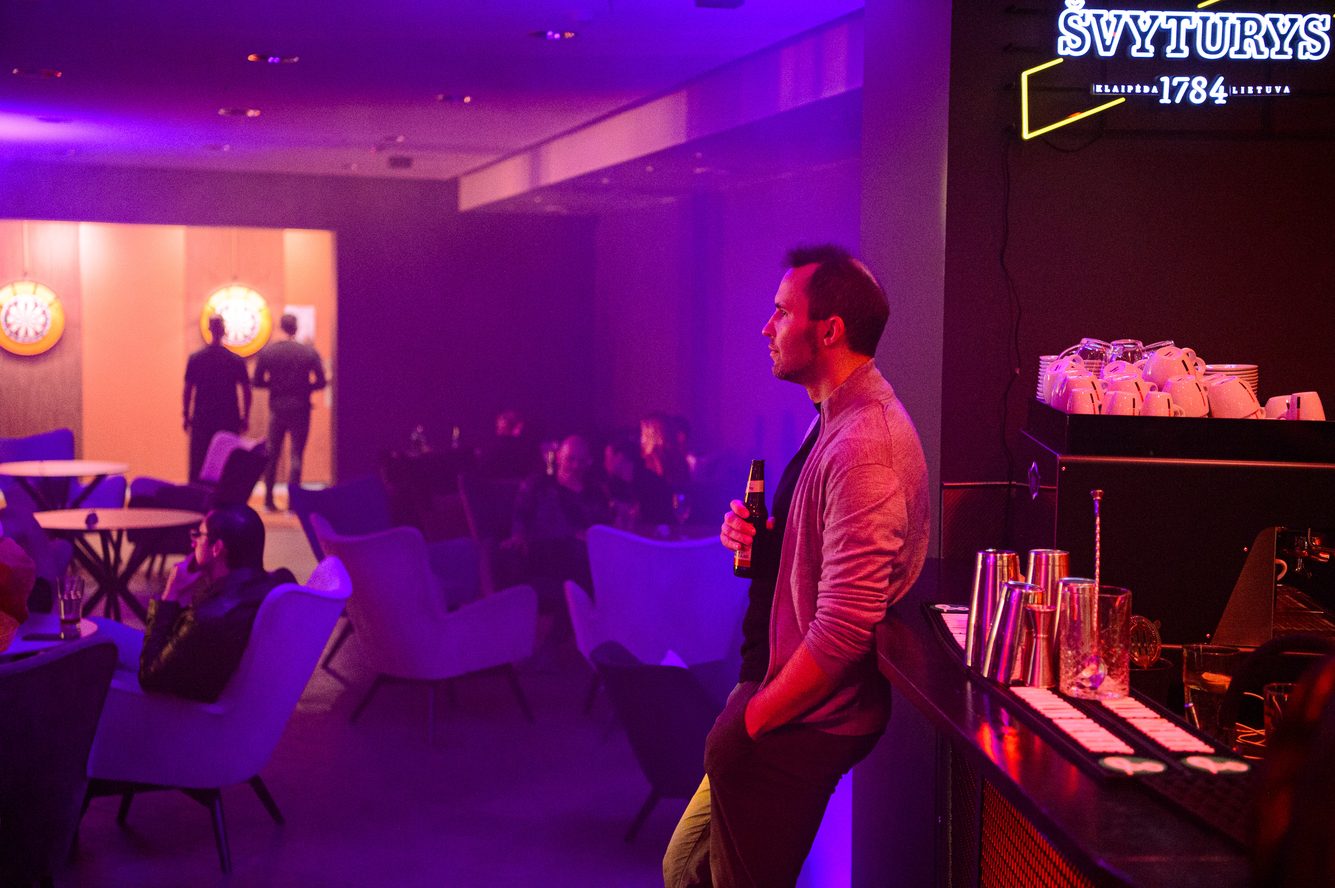
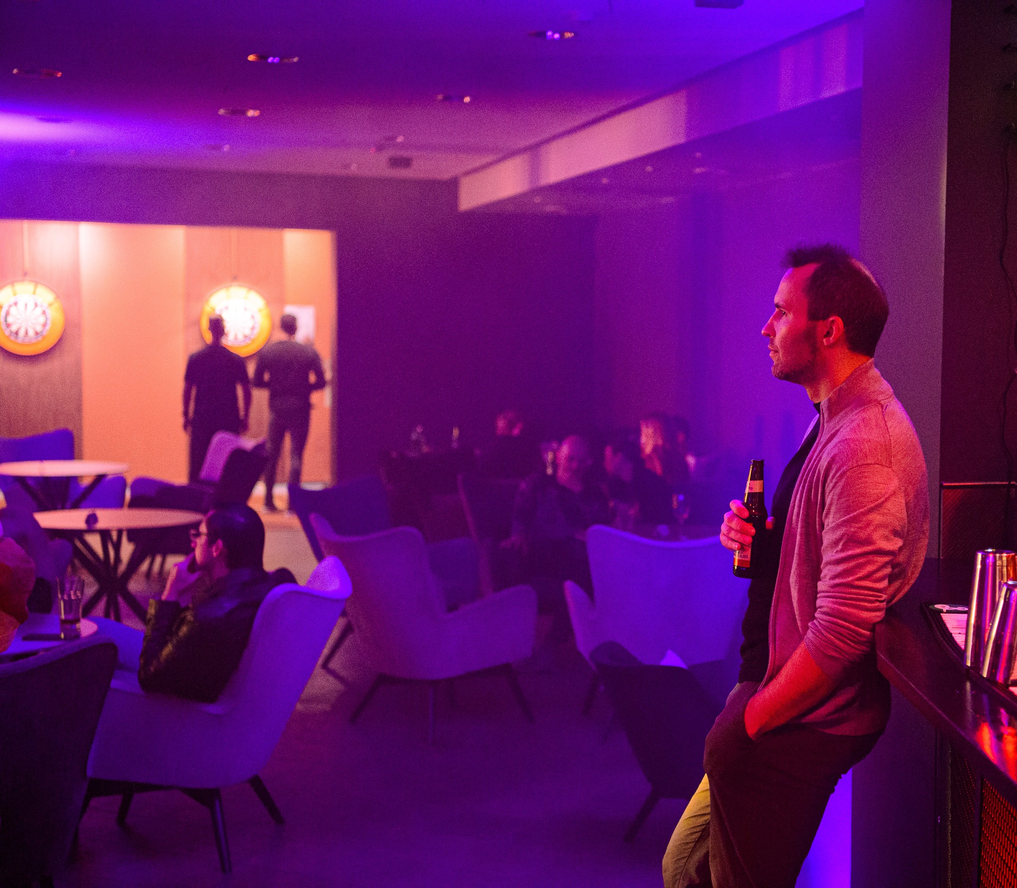
Add gallery sections; fix font links, update image
Insert new gallery sections into darts-palanga.html, offline-games.html, perkunas.html, retrobus.html, and vilko-kasnis.html to showcase related image grids. Normalize Google Fonts link markup in retrobus.html and vilko-kasnis.html (use rel="stylesheet" with href attribute). Replace/update the binary asset PERKUNAS/perkunas-8.jpg. These changes add visual galleries across several pages and tidy font link markup for consistency.

diff --git a/retrobus.html b/retrobus.html
@@ -7,7 +7,7 @@
 <meta name="description" content="RetroBus — vakarėlis, apie kurį kalbės visi. Smagiausia kelionė ant ratų visoje Lietuvoje. Įmonių vakarėliams, gimtadieniams, vestuvėms, bern- ir mergvakariams.">
 <link rel="preconnect" href="https://fonts.googleapis.com">
 <link rel="preconnect" href="https://fonts.gstatic.com" crossorigin>
-<link href="https://fonts.googleapis.com/css2?family=Inter:wght@400;500;600;700&family=Playfair+Display:ital,wght@0,400;0,600;0,700;1,400;1,600&display=swap" rel="stylesheet">
+<link rel="stylesheet" href="https://fonts.googleapis.com/css2?family=Inter:wght@400;500;600;700&family=Playfair+Display:ital,wght@0,400;0,600;0,700;1,400;1,600&display=swap">
 <link rel="stylesheet" href="assets/style.css">
 </head>
 <body>
@@ -75,6 +75,23 @@
       <div class="feature fade-in"><div class="feature-icon">🥂</div><h4>Bernvakariams / mergvakariams</h4><p>Klasika. RetroBus + Darts &amp; Billiards = vakaras, apie kurį kalbės dar metus.</p></div>
       <div class="feature fade-in"><div class="feature-icon">🎈</div><h4>Vaikų šventėms</h4><p>Ekskursija po miestą su muzika ir žaidimais — gimtadienis, kuris virsta nuotykiu.</p></div>
       <div class="feature fade-in"><div class="feature-icon">🌃</div><h4>Naktinio Vilniaus turai</h4><p>Turistinis maršrutas su gidu — Vilnius naktį iš party buso lango.</p></div>
+    </div>
+  </div>
+</section>
+
+<section class="section">
+  <div class="container">
+    <div class="section-head fade-in">
+      <span class="eyebrow">Galerija</span>
+      <h2>Party busas <em>gyvai</em></h2>
+    </div>
+    <div class="gallery fade-in">
+      <div class="gallery-item" style="background-image: url('BUS/bus-3.jpg');"></div>
+      <div class="gallery-item tall" style="background-image: url('BUS/bus-4.jpg');"></div>
+      <div class="gallery-item" style="background-image: url('BUS/bus-5.jpg');"></div>
+      <div class="gallery-item" style="background-image: url('BUS/bus-6.jpg');"></div>
+      <div class="gallery-item" style="background-image: url('BUS/bus-7.jpg');"></div>
+      <div class="gallery-item" style="background-image: url('BUS/bus-8.jpg');"></div>
     </div>
   </div>
 </section>

diff --git a/vilko-kasnis.html b/vilko-kasnis.html
@@ -7,7 +7,7 @@
 <meta name="description" content="Vilko Kąsnis — maistas Jūsų renginiui. Vieno kąsnio užkandžiai, jų rinkiniai, BBQ mėsų rinkiniai, šventinės vakarienės. Mūsų erdvėse arba pas Jus.">
 <link rel="preconnect" href="https://fonts.googleapis.com">
 <link rel="preconnect" href="https://fonts.gstatic.com" crossorigin>
-<link href="https://fonts.googleapis.com/css2?family=Inter:wght@400;500;600;700&family=Playfair+Display:ital,wght@0,400;0,600;0,700;1,400;1,600&display=swap" rel="stylesheet">
+<link rel="stylesheet" href="https://fonts.googleapis.com/css2?family=Inter:wght@400;500;600;700&family=Playfair+Display:ital,wght@0,400;0,600;0,700;1,400;1,600&display=swap">
 <link rel="stylesheet" href="assets/style.css">
 </head>
 <body>
@@ -76,6 +76,23 @@
       <div class="two-col-img framed fade-in" style="background: linear-gradient(135deg, #2a1b13 0%, #4a2d1d 100%); display:flex; align-items:center; justify-content:center;">
         <div style="font-family: var(--font-display); font-size: 3rem; color: var(--cream); font-weight: 700; letter-spacing: 4px;">VILKO<br><span style="color: var(--copper);">KĄSNIS</span><br><span style="font-size: 0.7rem; letter-spacing: 6px; font-family: var(--font-body); font-weight: 600; color: var(--text-dim);">MAISTAS RENGINIAMS</span></div>
       </div>
+    </div>
+  </div>
+</section>
+
+<section class="section">
+  <div class="container">
+    <div class="section-head fade-in">
+      <span class="eyebrow">Galerija</span>
+      <h2>Maistas <em>šventei</em></h2>
+    </div>
+    <div class="gallery fade-in">
+      <div class="gallery-item" style="background-image: url('VILKO/vilko-3.jpg');"></div>
+      <div class="gallery-item tall" style="background-image: url('VILKO/vilko-4.jpg');"></div>
+      <div class="gallery-item" style="background-image: url('VILKO/vilko-5.jpg');"></div>
+      <div class="gallery-item" style="background-image: url('VILKO/vilko-6.jpg');"></div>
+      <div class="gallery-item" style="background-image: url('VILKO/vilko-7.jpg');"></div>
+      <div class="gallery-item" style="background-image: url('VILKO/vilko-8.jpg');"></div>
     </div>
   </div>
 </section>

diff --git a/offline-games.html b/offline-games.html
@@ -103,6 +103,23 @@
   </div>
 </section>
 
+<section class="section">
+  <div class="container">
+    <div class="section-head fade-in">
+      <span class="eyebrow">Galerija</span>
+      <h2><em>Žaidimų erdvė</em>, kuri traukia komandą</h2>
+    </div>
+    <div class="gallery fade-in">
+      <div class="gallery-item" style="background-image: url('OFFLINE/offline-3.jpg');"></div>
+      <div class="gallery-item tall" style="background-image: url('OFFLINE/offline-4.jpg');"></div>
+      <div class="gallery-item" style="background-image: url('OFFLINE/offline-5.jpg');"></div>
+      <div class="gallery-item" style="background-image: url('OFFLINE/offline-6.jpg');"></div>
+      <div class="gallery-item" style="background-image: url('OFFLINE/offline-7.jpg');"></div>
+      <div class="gallery-item" style="background-image: url('OFFLINE/offline-8.jpg');"></div>
+    </div>
+  </div>
+</section>
+
 <section class="cta-band">
   <div class="container fade-in">
     <span class="eyebrow" style="margin: 0 auto 16px; display:inline-block; padding-left: 36px;">Susiplanuoti</span>

diff --git a/perkunas.html b/perkunas.html
@@ -76,6 +76,23 @@
   </div>
 </section>
 
+<section class="section">
+  <div class="container">
+    <div class="section-head fade-in">
+      <span class="eyebrow">Galerija</span>
+      <h2>Smiginio <em>akimirkos</em></h2>
+    </div>
+    <div class="gallery fade-in">
+      <div class="gallery-item" style="background-image: url('PERKUNAS/perkunas-2.jpg');"></div>
+      <div class="gallery-item tall" style="background-image: url('PERKUNAS/perkunas-3.jpg');"></div>
+      <div class="gallery-item" style="background-image: url('PERKUNAS/perkunas-4.jpg');"></div>
+      <div class="gallery-item" style="background-image: url('PERKUNAS/perkunas-5.jpg');"></div>
+      <div class="gallery-item" style="background-image: url('PERKUNAS/perkunas-6.jpg');"></div>
+      <div class="gallery-item" style="background-image: url('PERKUNAS/perkunas-8.jpg');"></div>
+    </div>
+  </div>
+</section>
+
 <section class="cta-band">
   <div class="container fade-in">
     <h2>Komandos formavimas <em>per žaidimą</em></h2>

diff --git a/darts-palanga.html b/darts-palanga.html
@@ -84,6 +84,23 @@
   </div>
 </section>
 
+<section class="section">
+  <div class="container">
+    <div class="section-head fade-in">
+      <span class="eyebrow">Galerija</span>
+      <h2>Pajūrio <em>žaidimas</em></h2>
+    </div>
+    <div class="gallery fade-in">
+      <div class="gallery-item" style="background-image: url('PALANGA/palanga-3.jpg');"></div>
+      <div class="gallery-item tall" style="background-image: url('PALANGA/palanga-4.jpg');"></div>
+      <div class="gallery-item" style="background-image: url('PALANGA/palanga-5.jpg');"></div>
+      <div class="gallery-item" style="background-image: url('PALANGA/palanga-6.jpg');"></div>
+      <div class="gallery-item" style="background-image: url('PALANGA/palanga-7.jpg');"></div>
+      <div class="gallery-item" style="background-image: url('PALANGA/palanga-8.jpg');"></div>
+    </div>
+  </div>
+</section>
+
 <section class="cta-band">
   <div class="container fade-in">
     <h2>Vasaros įvykis ar <em>žiemos pertrauka</em>?</h2>
